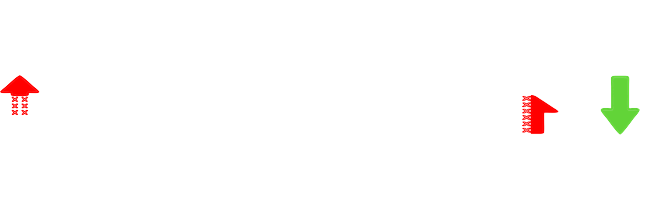
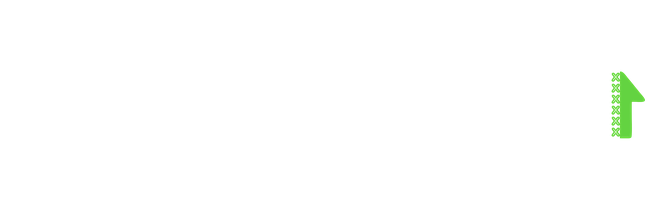
I fix Paint and arrowswidget and some const

Changed region(s): [[0.9231, 0.3429, 1.0, 0.6571], [0.8, 0.4571, 0.8615, 0.6571], [0.0, 0.3714, 0.0615, 0.5429]]

diff --git a/Paint.py b/Paint.py
@@ -5,7 +5,7 @@ from Consts import *
 
 
 class Paint:
-    def __init__(self, arrow_array=[], new_global_name="", width=PICTURE_WIDTH, height=PICTURE_HEIGHT):
+    def __init__(self, arrow_array=[], new_global_name="arrow", width=PICTURE_WIDTH, height=PICTURE_HEIGHT):
         self.size = (width, height)
         self.global_name = new_global_name
         if not arrow_array:
@@ -24,7 +24,7 @@ class Paint:
         for i in range(len(self.arrow_array)):
             self.arrow_array[i] = Arrow()
         with Image.open(name) as image:
-            self.clear_one(image, 0, (self.size[1] - HEIGHT_ARROW + 1) // 2, name, self.size[0])
+            self.clear_one(image, 0, 0, name, image.size[0], image.size[1])
 
     def draw_arrow_two(self, images, number, column_number,
                    line_number, width=WIDTH_ARROW, height=HEIGHT_ARROW):
@@ -54,23 +54,30 @@ class Paint:
             new_image_arrow = image_arrow.resize(size, Image.Resampling.LANCZOS)
             image.paste(new_image_arrow, position, new_image_arrow)
 
-    def draw_line(self, images, size=(PICTURE_WIDTH, PICTURE_HEIGHT)):
+    def draw_line(self, images, size=(PICTURE_WIDTH, PICTURE_HEIGHT),
+                  width_one_arrow = WIDTH_ARROW, distance_one_arrow = DISTANCE_BETWEEN_ARROWS):
         width, height = size
         line_number = (height - HEIGHT_ARROW + 1) // 2
         count = len(self.arrow_array)
-        width_one_arrow = width // count
         for position in range(count):
-            x = position * width_one_arrow
+            x = distance_one_arrow + position * (width_one_arrow + distance_one_arrow)
             self.draw_arrow_two(images, position, x, line_number, width_one_arrow)# Две последние можно вообще не указывать,
                                                                               # если хочется сохранить качество стрелочек
 
-    def draw(self, name_arrow=NAME_ARROWS, name_hide_arrow=NAME_HIDE_ARROWS, new_size=(PICTURE_WIDTH, PICTURE_HEIGHT)):
-        image = Image.new("RGBA", new_size, (255, 255, 255, 0))
-        hide_image = Image.new("RGBA", new_size, (255, 255, 255, 0))
-        self.size = new_size
+    def draw(self, name_arrow=NAME_ARROWS, name_hide_arrow=NAME_HIDE_ARROWS,
+             original_size=(DISTANCE_BETWEEN_ARROWS + MASSIVE_SIZE
+                            * (WIDTH_ARROW + DISTANCE_BETWEEN_ARROWS), 3 * HEIGHT_ARROW),
+             new_size=(PICTURE_WIDTH, PICTURE_HEIGHT), fl = False):
+        image = Image.new("RGBA", original_size, (255, 255, 255, 0))
+        hide_image = Image.new("RGBA", original_size, (255, 255, 255, 0))
+        self.size = original_size
         name_arrow = "./arrows/" + self.global_name + ".png"
         name_hide_arrow = "./arrows/hide_" + self.global_name + ".png"
-        self.draw_line((hide_image, image), new_size)
+        self.draw_line((hide_image, image), original_size)
+        if fl:
+            (image.resize(new_size, Image.Resampling.LANCZOS)).save(name_arrow)
+            (hide_image.resize(new_size, Image.Resampling.LANCZOS)).save(name_hide_arrow)
+            return
         image.save(name_arrow)
         hide_image.save(name_hide_arrow)
 
@@ -85,14 +92,23 @@ class Paint:
         self.arrow_array = new_arrows
         self.draw(name_arrow, name_hide_arrow)
 
-    def update_storage_position(self, position, name_arrow="./src/tmp/arrows.png"):
-        with Image.open(name_arrow) as image:
-            width_one_arrow = self.size[0] // len(self.arrow_array)
-            self.clear_one(image, position * width_one_arrow,
-                       (self.size[1] - HEIGHT_ARROW + 1) // 2, name_arrow, width_one_arrow)
-            self.draw_arrow_one(image, position, position * width_one_arrow,
+    def update_storage_position(self, position, copy_name_arrow="./src/tmp/copy_arrows.png",
+                                name_arrow="./src/tmp/arrows.png",
+                                width_one_arrow=WIDTH_ARROW,
+                                new_size=(PICTURE_WIDTH, PICTURE_HEIGHT),
+                                distance=DISTANCE_BETWEEN_ARROWS,
+                                original_size=(DISTANCE_BETWEEN_ARROWS + MASSIVE_SIZE
+                                               * (WIDTH_ARROW + DISTANCE_BETWEEN_ARROWS), 3 * HEIGHT_ARROW)):
+        with Image.open(copy_name_arrow) as image:
+            if original_size != image.size:
+                image = image.resize(original_size)
+            self.size = image.size
+            self.clear_one(image, distance + position * (width_one_arrow + distance),
+                       (self.size[1] - HEIGHT_ARROW + 1) // 2, copy_name_arrow, width_one_arrow)
+            self.draw_arrow_one(image, position, distance + position * (width_one_arrow + distance),
                             (self.size[1] - HEIGHT_ARROW + 1) // 2, width_one_arrow)
-            image.save(name_arrow)
+            image.save(copy_name_arrow)
+            (image.resize(new_size, Image.Resampling.LANCZOS)).save(name_arrow)
 
     def get_name(self, position):
         return self.arrow_array[position].name
@@ -112,25 +128,25 @@ class Paint:
     def get_global_name(self):
         return self.global_name
 
-    def set_global_name(self, new_global_name):
+    def set_global_name(self, new_global_name="arrow"):
         self.global_name = new_global_name
 
-    def set_name(self, position, new_name, name_arrow="./src/tmp/arrows.png"):
+    def set_name(self, position, new_name, name_arrow="./src/tmp/copy_arrows.png"):
         self.arrow_array[position].name = new_name
         self.update_storage_position(position, name_arrow)
 
-    def set_type(self, position, new_type, name_arrow="./src/tmp/arrows.png"):
+    def set_type(self, position, new_type, name_arrow="./src/tmp/copy_arrows.png"):
         self.arrow_array[position].type = new_type
         self.update_storage_position(position, name_arrow)
 
-    def set_accent(self, position, new_accent, name_arrow="./src/tmp/arrows.png"):
+    def set_accent(self, position, new_accent, name_arrow="./src/tmp/copy_arrows.png"):
         self.arrow_array[position].accent = new_accent
         self.update_storage_position(position, name_arrow)
 
-    def set_status(self, position, new_status, name_arrow="./src/tmp/arrows.png"):
+    def set_status(self, position, new_status, name_arrow="./src/tmp/copy_arrows.png"):
         self.arrow_array[position].status = new_status
         self.update_storage_position(position, name_arrow)
 
-    def set_direction(self, position, new_direction, name_arrows="./src/tmp/arrows.png"):
+    def set_direction(self, position, new_direction, name_arrows="./src/tmp/copy_arrows.png"):
         self.arrow_array[position].direction = new_direction
         self.update_storage_position(position, name_arrows)

diff --git a/ArrowsWidget.py b/ArrowsWidget.py
@@ -17,7 +17,8 @@ class ArrowsWidget(QDialog):
         uic.loadUi("src/arrows_widget.ui", self)
 
         self.arrows = Paint()
-        self.arrows.clear_all()
+        self.arrows.clear_all("./src/tmp/arrows.png")
+        self.arrows.clear_all("./src/tmp/copy_arrows.png")
 
         self.resetButton.clicked.connect(self.reset_pressed)
         self.submitButton.clicked.connect(self.submit_pressed)
@@ -95,7 +96,8 @@ class ArrowsWidget(QDialog):
         self.arrows.draw()
 
     def reset_pressed(self):
-        self.arrows.clear_all()
+        self.arrows.clear_all("./src/tmp/arrows.png")
+        self.arrows.clear_all("./src/tmp/copy_arrows.png")
         self.update_arrow_menu()
         self.update_visual_display()
 

diff --git a/Consts.py b/Consts.py
@@ -20,8 +20,9 @@ DISPLAY_SIZE = (238, 278)
 
 # for arrows
 MASSIVE_SIZE = 16
-HEIGHT_ARROW = 60
-WIDTH_ARROW = 60
+HEIGHT_ARROW = 447
+WIDTH_ARROW = 307
+DISTANCE_BETWEEN_ARROWS = 30
 PICTURE_WIDTH = 650
 PICTURE_HEIGHT = 210
 NAME_ARROWS = "./arrows/arrows.png"
